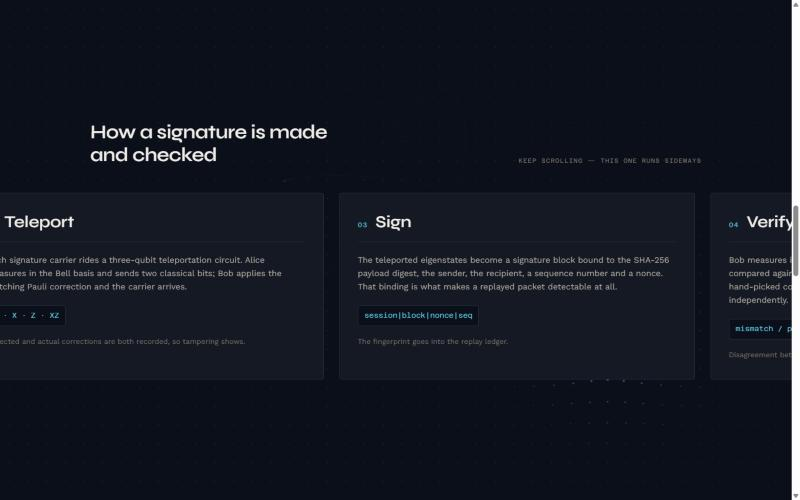
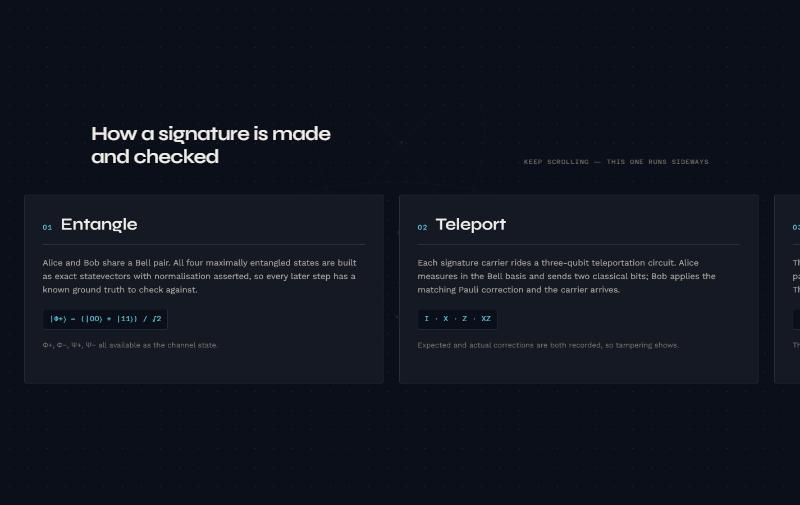
Retake the protocol screenshot
The first one was caught mid-slide, with panels clipped at both edges
and dead space below. It read as a broken layout rather than as a
section that scrolls sideways.

Retaken at the start of the pin: 01 Entangle and 02 Teleport are
fully readable, and 03 enters at the right edge, which is what
signals there is more to come. Alt text updated to match.

Checked the other four by eye; all were settled.

diff --git a/README.md b/README.md
@@ -131,7 +131,7 @@ sequence), the threshold chain, the eight attacks, and what the project does
 not claim. The dot lattice behind it bends toward the cursor — observing the
 channel disturbs it, which is the premise the whole system rests on.
 
-![The protocol section mid-scroll, panels 02 Teleport and 03 Sign sliding sideways](docs/images/landing-protocol.jpg)
+![The protocol section pinned, showing panels 01 Entangle and 02 Teleport with 03 entering from the right](docs/images/landing-protocol.jpg)
 
 ### Dashboard — `/dashboard`
 
